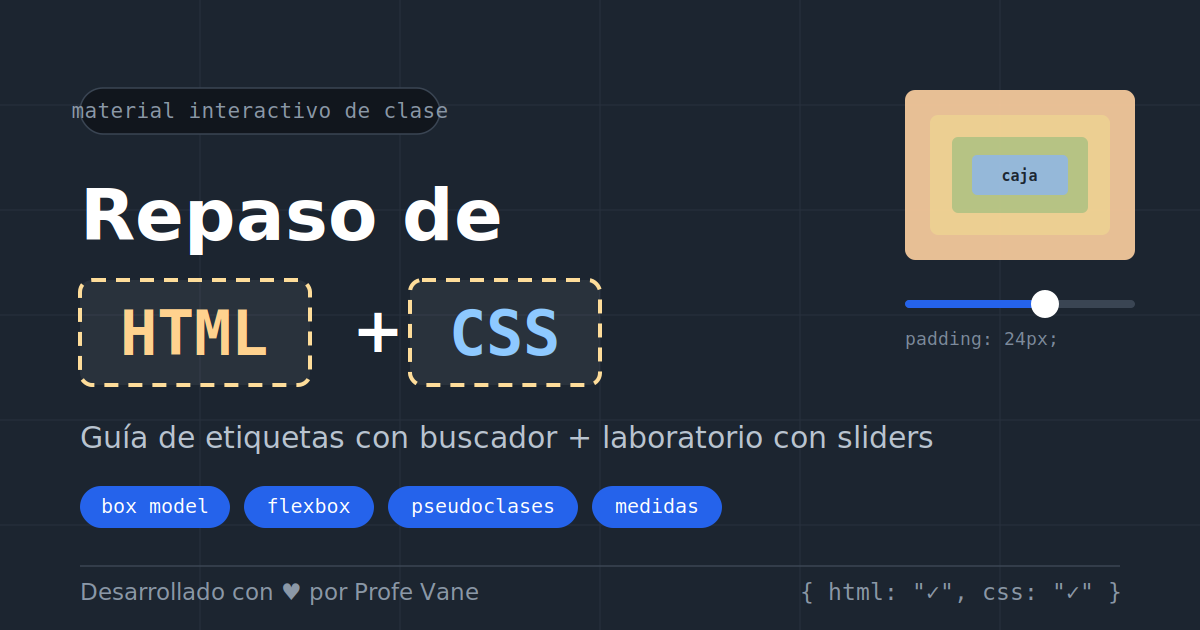
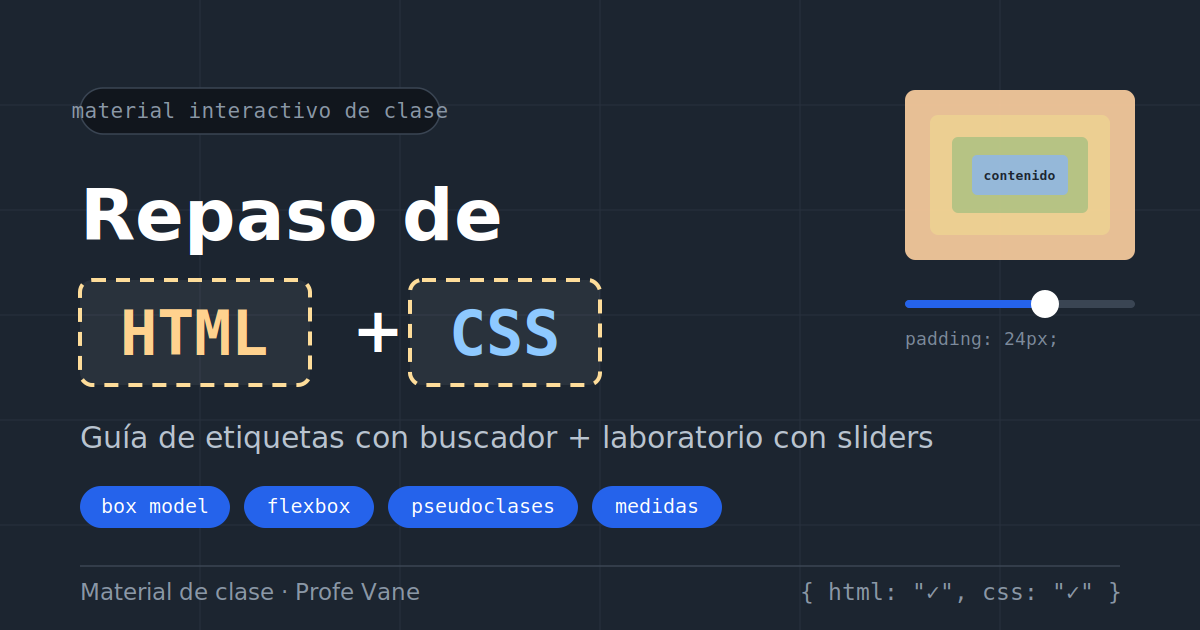
imagen nueva

Changed region(s): [[0.0617, 0.9048, 0.4008, 0.9651], [0.8017, 0.2714, 0.8942, 0.3016]]

diff --git a/laboratorio-css.html b/laboratorio-css.html
@@ -791,7 +791,7 @@ aside.tip strong{ color: #92600a; }
       (probá poner la duración en 0 y vas a extrañarla). ② El orden de las pseudoclases
       de enlaces es <code>:link</code>, <code>:visited</code>, <code>:hover</code>,
       <code>:active</code> — regla mnemotécnica: <strong>L</strong>o<strong>V</strong>e /
-      <strong>H</strong>a<strong>A</strong>te. En otro orden pueden pisarse entre sí.
+      <strong>H</strong>a<strong>T</strong>e. En otro orden pueden pisarse entre sí.
     </aside>
   </section>
 